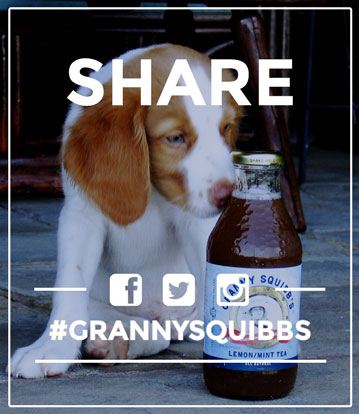
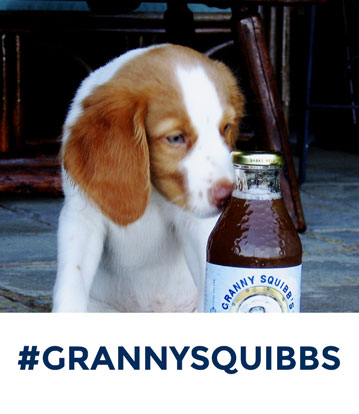
added images and changed home page landing button

diff --git a/theme/style.css b/theme/style.css
@@ -5274,7 +5274,7 @@ div.homeboxes {
 .boxleft,
 a .boxleft {
   background-color: #b2deee;
-  background: url(http://squibbs.wpengine.com/wp-content/themes/squibbs-pd/images/gs-map-narragansett-bay-2.jpg) no-repeat center;
+  background: url(http://squibbs.wpengine.com/wp-content/themes/squibbs-pd/images/our-story.jpg) no-repeat center;
   -webkit-background-size: cover;
   -moz-background-size: cover;
   -o-background-size: cover;
@@ -5288,7 +5288,7 @@ a .boxleft {
 
 .boxleft:hover {
   background-color: #68a7bd;
-  background: url(http://squibbs.wpengine.com/wp-content/themes/squibbs-pd/images/gs-map-narragansett-bay.jpg) no-repeat center;
+  background: url(http://squibbs.wpengine.com/wp-content/themes/squibbs-pd/images/our-story-hover.jpg) no-repeat center;
   -webkit-background-size: cover;
   -moz-background-size: cover;
   -o-background-size: cover;
@@ -5297,7 +5297,16 @@ a .boxleft {
 }
 
 .boxcenter {
-  background: url(http://squibbs.wpengine.com/wp-content/themes/squibbs-pd/images/squibbwreck-middle-home.jpg) no-repeat center;
+  background: url(http://squibbs.wpengine.com/wp-content/themes/squibbs-pd/images/recipes.jpg) no-repeat center;
+  -webkit-background-size: cover;
+  -moz-background-size: cover;
+  -o-background-size: cover;
+  background-size: cover;
+  background-color: #b2deee;
+}
+
+.boxcenter:hover {
+  background: url(http://squibbs.wpengine.com/wp-content/themes/squibbs-pd/images/recipes-hover.jpg) no-repeat center;
   -webkit-background-size: cover;
   -moz-background-size: cover;
   -o-background-size: cover;
@@ -5378,12 +5387,12 @@ a .boxleft {
 }
 
 .boxright {
-  background: url("http://squibbs.wpengine.com/wp-content/themes/squibbs-pd/images/grannysquibbs-2.jpg");
+  background: url("http://squibbs.wpengine.com/wp-content/themes/squibbs-pd/images/hashtag-grannysquibbs.jpg");
   background-color: #b2deee;
 }
 
 .boxright:hover {
-  background: url("http://squibbs.wpengine.com/wp-content/themes/squibbs-pd/images/grannysquibbs-2.jpg");
+  background: url("http://squibbs.wpengine.com/wp-content/themes/squibbs-pd/images/hashtag-grannysquibbs-hover.jpg");
   transition: none;
   background-color: #68a7bd;
 }
